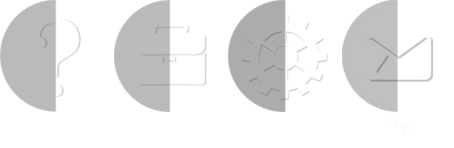
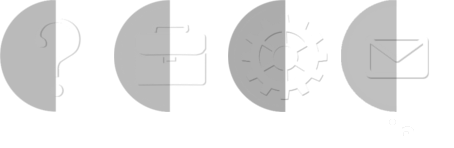
Update Home page content
Update mail icon

diff --git a/index.html b/index.html
@@ -6,31 +6,51 @@ heading: Home
 <section id="about">
   <span class="icon about"></span> 
   
-  <h1>about</h1>
+  <h1>About</h1>
   
-  <p>Hi! I'm a 1B Electrical Engineering student at the University of Waterloo.
-  Currently, I'm on my second co-op term, working at <a href="https://gatewaylogin.com/marketing.php">GatewayiQ</a>.</p>
-  <p>This self-designed site contains my work experience, projects, and r&eacute;sum&eacute;. 
-  Feel free to contact me by phone at (604) 783-7418, by email at <a href="mailto:midoriarmstrong@gmail.com">midoriarmstrong@gmail.com</a>, 
+  <p>Hello there! My name is Midori Armstrong. I'm a current Computer Engineering student at the University of Waterloo.
+  At the moment, I'm on a co-op term at <a href="https://gatewaylogin.com/marketing.php">GatewayiQ</a>.</p>
+  
+  <p>I have a keen interest in software, and I'm always looking to learn more. I have work experience with <strong>PHP, JavaScript</strong>, and <strong>C</strong>, 
+  but I'm also familiar with Java, C++, and batch and shell scripting. On the more front-end side of things, I've worked with <strong>HTML5, CSS3, Sass</strong> 
+  (and SCSS), <strong>JQuery</strong>, and <strong>JQueryUI</strong>. I also have testing experience with <strong>Codeception</strong> and <strong>PHPunit</strong> for PHP, and with CasperJS for JavaScript.</p>
+  
+  <p>Check out my <a href="https://ca.linkedin.com/in/midori-armstrong-19433012b">LinkedIn</a> and my <a href="/assets/files/midoriarmstrong-resume.pdf">r&#233;sum&#233;</a> for more info.</p>
+  
+  <p>Feel free to contact me through the form at the bottom of the page, by phone at (604) 783-7418, 
+  by email at <a href="mailto:midoriarmstrong@gmail.com">midoriarmstrong@gmail.com</a>, 
   or by Skype at midori.armstrong if you have any questions.</p>
 </section>
 
 <section id="projects">
   <span class="icon projects"></span> 
   
-  <h1>projects</h1>  
+  <h1>Projects</h1>  
   
-  <h2>This website!</h2>
+  <h2>This Website</h2>
   
-  <p>This website was coded and designed from scratch by myself with JQuery, HTML5, and CSS3. 
-  All image assets were self-made with the exception of the GitHub and LinkedIn logos above. Feel free to report any bugs. Source code for this website can be found at 
-  <a href="https://github.com/midoriarmstrong/midoriarmstrong.github.io">this github repository.</a></p>
-</section>
+  <p>This website was designed and created entirely by myself, hosted through Github Pages. <strong>No</strong> base templates were used. 
+  All image assets, excepting the Github and LinkedIn logos above, were created by myself. Originally written in plain HTML and CSS, 
+  it was later refactored to use Sass and Liquid templating via Jekyll. It also uses some JavaScript and JQuery.</p>
+  
+  <p>The site is written to follow semantic HTML principles and features a responsive UI; it is fully functional on desktop, mobile, and tablet.</p>
+  
+  <p>Source code can be found at <a href="https://github.com/midoriarmstrong/midoriarmstrong.github.io">this github repository.</a></p>
+  
+  <h2>RSA-related Discrete Math Tools</h2>
+  
+  <p>I wrote code to encrypt and decrpyt messages using RSA, as well as generate new keys. The original code, written in Java, can be found 
+  <a href="https://github.com/midoriarmstrong/rsa-encrypt-decrpyt">here</a>.</p>
+  
+  <p>I then took part of the above code, rewrote it in JavaScript, and extracted some methods to create stand-alone tools to solve a few 
+  discrete math-related problems with full steps. It can be viewed <a href="/discrete-math">here</a>.
+  The RSA encryption and decryption was not duplicated due to issues in JavaScript with dealing with numbers that were too large.</p>
+</section> 
 
 <section id="work-experience">
   <span class="icon work"></span> 
   
-  <h1>work experience</h1>
+  <h1>Work Experience</h1>
   
   <h2>Web Developer at GatewayiQ</h2>
   

diff --git a/css/main.sass b/css/main.sass
@@ -10,16 +10,15 @@ $spritesheetY: 148px
 $baselighter: #cbdcdf
 $baselight: #bbdede
 $basecolour: #93B7BE
-$basedark: #554348
+$basedark: #564349
 $text: #4c4245
 $heading: #616161
-$link: #212121
+$link: #7f7f7f
 $linkvisited: #696969
 $linkhover: white
 
 body
-  background: $baselight
-  background-image: url('/assets/images/bg.png')
+  background: url("/assets/images/bg.png") $baselight repeat fixed
   color: $text 
   font-size: 16px
   font-family: 'Montserrat', 'Tahoma', 'Geneva', sans-serif
@@ -60,6 +59,7 @@ body
             span 
             
               &.icon 
+                background-color: none
                 height: 34px 
                 margin-top: 2.438rem
                 width: 34px 
@@ -226,7 +226,7 @@ body
         background-position: 34px -114px
         bottom: 0
         display: inline-block
-        height: 25px 
+        height: 23px 
         left: 0
         margin: auto 
         position: absolute 

diff --git a/discrete-math/index.html b/discrete-math/index.html
@@ -9,7 +9,7 @@ head: |
   <script src="js/main.js"></script>
 ---
 <section id="eucliAlgo">
-  <h1>euclidean algorithm</h1>
+  <h1>Euclidean Algorithm</h1>
   <p>Please input two integers to find their greatest common divisor.</p>
   <form>
     <table>
@@ -34,7 +34,7 @@ head: |
 </section>
 
 <section id="linDio">
-  <h1>linear diophantine equation</h1>
+  <h1>Linear Diophantine Equations</h1>
   
   <p>Please input three integers to find the complete solution to <span><em>ax + by = c</em></span>, if it exists.</p>
   <form>
@@ -66,7 +66,7 @@ head: |
 </section>
 
 <section id="linCong">
-  <h1>linear congruences</h1>
+  <h1>Linear Congruences</h1>
   
   <p>Please input three integers to find the complete solution to <span><em>ax &#x2261; b (mod n)</em></span>, if it exists.</p>
   <form>
